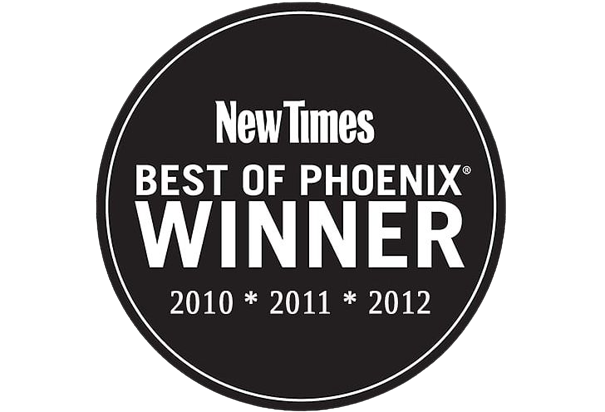
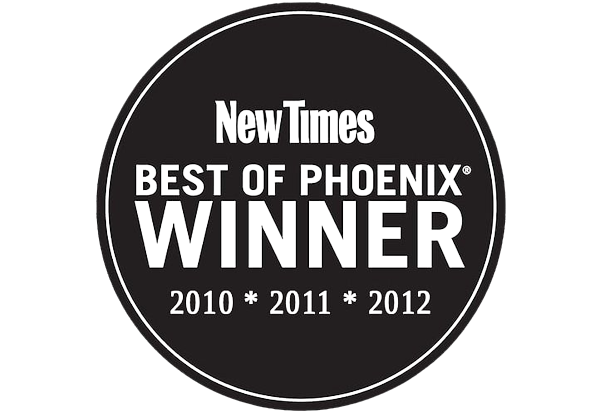
about page update

diff --git a/about.html b/about.html
@@ -31,19 +31,84 @@
                  Gusteau's is a French style restaurant founded and established in Arizona, 2007 by Auguste Gusteau. Gusteau's was created with the determination to give you the finest dishes possible along with an idealogy that will give you the most enjoyable experience possible. Gusteau's is also devoted to it's unique, savory, appetizing assortment of gourmet dining. At Gusteau's every appetizer, entree, and dessert is  carefully hand-crafted by a 5-star chef with precision and the utmost attention to detail. This along with our outstandingly receptive and friendly servers and staff has led Gusteau's being awarded 3 Michelin stars, the title of Arizona's best French Restraunt, and many other awards. Lorem ipsum dolor sit amet consectetur adipisicing elit. Cupiditate quisquam sunt voluptatum corporis minima qui possimus temporibus harum esse nemo sit odio quidem quod quo ipsam beatae error facilis, asperiores recusandae. Magni praesentium dignissimos sunt molestiae nisi velit earum enim numquam, reprehenderit, maxime nemo quis nostrum eveniet ipsum, error beatae! Explicabo, quos. Suscipit temporibus sequi, ullam ad fugit dignissimos omnis. Ipsum numquam a repellat nulla aspernatur animi beatae quasi eum impedit nam itaque sed ratione corporis soluta libero adipisci quos dicta quae reprehenderit porro illo debitis, accusantium natus. Ab et laboriosam quas optio. Tempora hic, illo molestiae laborum beatae ad odit? Quia in doloremque voluptatum quaerat voluptates deserunt, a illo qui facere perferendis blanditiis nulla est. Eaque assumenda provident soluta! Aperiam beatae consequuntur ratione dolore possimus, fugit, distinctio deserunt rerum, dolor temporibus magni harum? Aliquid dolorem nesciunt illum, facilis nostrum, fugit delectus debitis amet quaerat sed laudantium molestias exercitationem cumque officiis. Id atque amet, repudiandae deserunt illo placeat culpa dolorum minima nemo, exercitationem rem et commodi non explicabo vitae quidem aperiam mollitia nobis, autem nisi natus fugiat. Odio a ut corrupti cumque vel dicta magni nulla, nobis illo id tenetur tempora. Earum deserunt saepe mollitia animi atque, nulla nihil officia quis excepturi dignissimos quasi! Doloribus quod corporis provident veritatis quisquam cum veniam aspernatur ab laudantium perferendis odit maxime nesciunt, architecto nemo quo voluptates qui dolor voluptatibus voluptatum quasi totam dolores perspiciatis nisi modi? Delectus, sint? Placeat fugiat, soluta unde rerum odit eum delectus? Velit illum voluptatem iure blanditiis aperiam pariatur!
             </p>
         </div>
+        <div class="slideshow-container">
+            <h1>Gusteau's Timeline</h1>
+            <div class="mySlides fade">
+                <div class="text">Hello</div>
+                <img src="./2michelinStar.png" width="100%" height="600vh">
+            </div>
+        
+            <div class="mySlides fade">
+                <div class="text">nice</div>
+                <img src="./firstPlace.jpg" width="100%" height="600vh">
+            </div>
+        
+            <div class="mySlides fade">
+                <div class="text">hehe</div>
+                <img src="./cookbook.jpg" width="100%" height="600vh">
+            </div>
+        
+            <div class="mySlides fade">
+                <div class="text">pop</div>
+                <img src="./chef.jpg" width="100%" height="600vh">
+            </div>
+        
+            <div class="mySlides fade">
+                <div class="text">peep</div>
+                <img src="./souffle.jpg" width="100%" height="600vh">
+            </div>
+        
+            <div class="mySlides fade">
+                <div class="text">do</div>
+                <img src="./packedRestraunt.webp" width="100%" height="600vh">
+            </div>
+        
+            <div class="mySlides fade">
+                <div class="text">it</div>
+                <img src="./gusteauDish.jpg" width="100%" height="600vh">
+            </div>
+        
+            <div class="mySlides fade">
+                <div class="text">what</div>
+                <img src="./firstPlace.jpg"
+                width="100%" height="600vh">
+            </div>
+        
+            <a class="prev" onclick="plusSlides(-1)">❰</a>
+            <a class="next" onclick="plusSlides(1)">❱</a>
+            
+            <div style="text-align:center" class="dotContainer">
+                <span class="dot" onclick="currentSlide(1)"></span>
+                <span class="dot" onclick="currentSlide(2)"></span>
+                <span class="dot" onclick="currentSlide(3)"></span>
+                <span class="dot" onclick="currentSlide(4)"></span>
+                <span class="dot" onclick="currentSlide(5)"></span>
+                <span class="dot" onclick="currentSlide(6)"></span>
+                <span class="dot" onclick="currentSlide(7)"></span>
+                <span class="dot" onclick="currentSlide(8)"></span>
+            </div>
+        </div>
+
         <div class="awards">
             <h1 class="awardsTitle">Awards & Achievements</h1>
-            <img src="michelinStar.png" alt="" width="400px" height="300px" class="starPic hiddenStarPic">
+            <img src="michelinEdit.png" alt="" width="400px" height="300px" class="starPic hiddenStarPic">
 
             <p class="hidden starPara">
                 Gusteau's was awarded with 2 Michelin Stars on October 24<sup>th</sup>, 1972 and on January 4th, 1975 Gusteau's was rewarded with the highest honor any restraunt can get when Gusteau's recieved and has maintained till this day our 3<sup>rd</sup> star.
             </p>
 
-            <img src="./bestOfPhoenix.png" alt="" class="newTimesPic hiddenBestPic" width="400px" height="300px">
+            <img src="./bestOfPhoenix.jpg" alt="" class="newTimesPic hiddenBestPic" width="400px" height="300px">
 
             <p class="hidden newTimesPara">
-                Gusteau's won the "Best French Restuarant" in the  Phoenix New Times 'Best of the Valley' 3 consecutive years in 2010, 2011, and 2012. Guesteau's has consitently placed top 3 since we have been established in 2007.
+                Gusteau's won the "Best French Restuarant" in the  Phoenix New Times 'Best of the Valley' 3 consecutive years in 2010, 2011, and 2012. Guesteau's has consitently placed top 3 since we were established in 2007.
             </p>
+
+            <p class="hidden top100Para">
+                Gusteau's has recent
+            </p>
+
+            <img src="top100.png" alt="" class="top100Pic hiddenStarPic">
+
         </div>
         <div class="footer">Footer</div>
     </div>

diff --git a/about.css b/about.css
@@ -1,6 +1,103 @@
+*{
+    box-sizing: border-box
+
+}
 body {
     margin: 0%;
     padding: 0%;
+}
+
+.mySlides {
+    display: none;
+    border: 4px solid black;
+}
+
+img {
+    vertical-align: middle;
+}
+
+/* Slideshow container */
+.slideshow-container {
+    grid-area: slideshow;
+    position: relative;
+    margin: auto;
+    width: 100%;
+    z-index: 1;
+
+}
+
+/* Next & previous buttons */
+.prev,
+.next {
+    cursor: pointer;
+    position: absolute;
+    top: 50%;
+    width: auto;
+    padding: 16px;
+    margin-top: -22px;
+    color: white;
+    font-weight: bold;
+    font-size: 18px;
+    transition: 0.6s ease;
+    border-radius: 0 3px 3px 0;
+    user-select: none;
+    background-color: rgba(0, 0, 0, 0.4);
+}
+
+/* Position the "next button" to the right */
+.next {
+    right: 0;
+    border-radius: 3px 0 0 3px;
+}
+
+/* On hover, add a black background color with a little bit see-through */
+.prev:hover,
+.next:hover {
+    background-color: rgba(0, 0, 0, 0.8);
+}
+
+/* Caption text */
+.text {
+    font-size: 20px;
+    padding: 8px 12px;
+    bottom: 8px;
+    width: 100%;
+    text-align: center;
+    border-bottom: 4px solid black;
+}
+
+/* The dots/bullets/indicators */
+.dot {
+    cursor: pointer;
+    height: 15px;
+    width: 15px;
+    margin: 0 2px;
+    background-color: #bbb;
+    border-radius: 50%;
+    display: inline-block;
+    transition: background-color 0.6s ease;
+}
+
+.dotContainer {
+    display: flex;
+    padding: 1.5%;
+    margin: auto;
+    justify-content: space-evenly;
+    border-bottom: 4px solid black;
+    border-left: 4px solid black;
+    border-right: 4px solid black;
+}
+
+
+.active,
+.dot:hover {
+    background-color: #717171;
+}
+
+/* Fading animation for slideshow*/
+.fade {
+    animation-name: fade;
+    animation-duration: 1.5s;
 }
 
 .nav {
@@ -11,6 +108,7 @@ body {
     top: 0px;
     background-color: aqua;
     border-bottom: solid black 2px;
+    z-index: 100;
 }
 
 .nav>div>a {
@@ -25,6 +123,7 @@ body {
 
 .aside {
     grid-area: aside;
+    justify-content: space-;
 }
 
 .aboutUs {
@@ -49,21 +148,43 @@ p{
 .starPic{
     grid-area: starPic;
     display: inline;
+    justify-self: center;
+    width: 75%;
+    height: auto;
 }
 
 .starPara{
     grid-area: starPara;
     display: inline;
+    align-self: center;
 }
 
 .newTimesPic{
     grid-area: newTimesPic;
     display: inline;
+    justify-self: center;
+    width: 75%;
+    height: auto;
 }
 
 .newTimesPara{
     grid-area: newTimesPara;
     display: inline;
+    align-self: center;
+}
+
+.top100Para {
+    grid-area: top100Para;
+    display: inline;
+    align-self: center;
+}
+
+.top100Pic {
+    grid-area: top100Pic;
+    display: inline;
+    justify-self: center;
+    width: 75%;
+    height: auto;
 }
 
 .awards{
@@ -74,7 +195,8 @@ p{
     grid-template-areas: 
     'awardsTitle awardsTitle'
     'starPara starPic'
-    'newTimesPic newTimesPara';
+    'newTimesPic newTimesPara'
+    'top100Para top100Pic';
 }
 
 .newTimesPara{
@@ -84,14 +206,14 @@ p{
 .container {
     height: 100%;
     margin: auto;
-    width: 50%;
+    width: 75%;
     display: grid;
     gap: 5px;
     grid-template-columns: 1fr;
     grid-template-rows: auto;
     grid-template-areas:
         "aboutUs"
-        "timeline"
+        "slideshow"
         "awards"
         "footer"
     ;

diff --git a/aboutUs.js b/aboutUs.js
@@ -43,3 +43,32 @@ const observerBest = new IntersectionObserver((entries) => {
 })
 const hiddenBest = document.querySelectorAll(".hiddenBestPic")
 hiddenBest.forEach((el)=> observerBest.observe(el))
+
+
+//Timeline Slideshow
+let slideIndex = 1;
+showSlides(slideIndex);
+
+function plusSlides(n) {
+  showSlides(slideIndex += n);
+}
+
+function currentSlide(n) {
+  showSlides(slideIndex = n);
+}
+
+function showSlides(n) {
+  let i;
+  let slides = document.getElementsByClassName("mySlides");
+  let dots = document.getElementsByClassName("dot");
+  if (n > slides.length) {slideIndex = 1}    
+  if (n < 1) {slideIndex = slides.length}
+  for (i = 0; i < slides.length; i++) {
+    slides[i].style.display = "none";  
+  }
+  for (i = 0; i < dots.length; i++) {
+    dots[i].className = dots[i].className.replace(" active", "");
+  }
+  slides[slideIndex-1].style.display = "block";  
+  dots[slideIndex-1].className += " active";
+}
